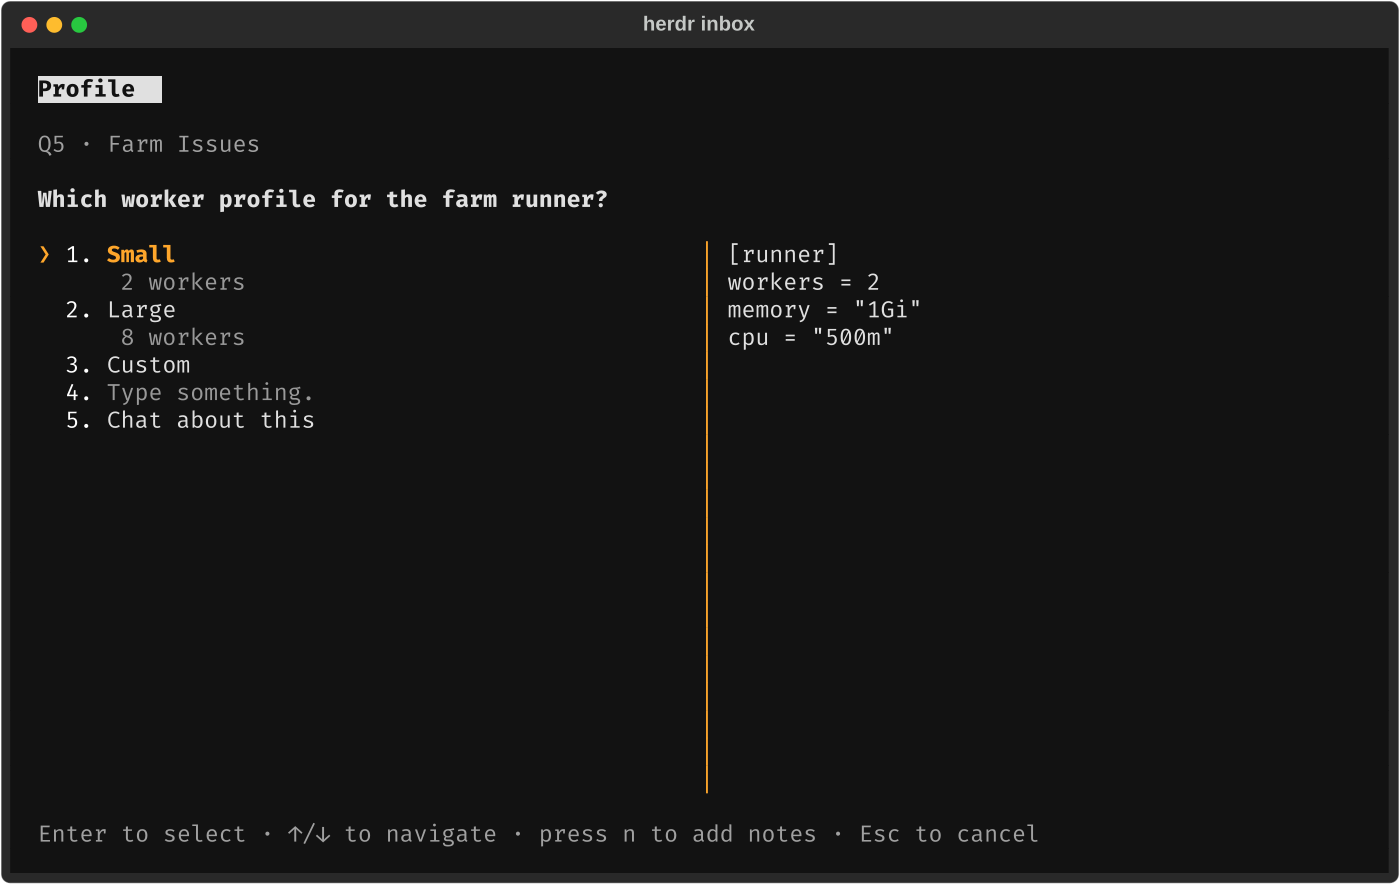
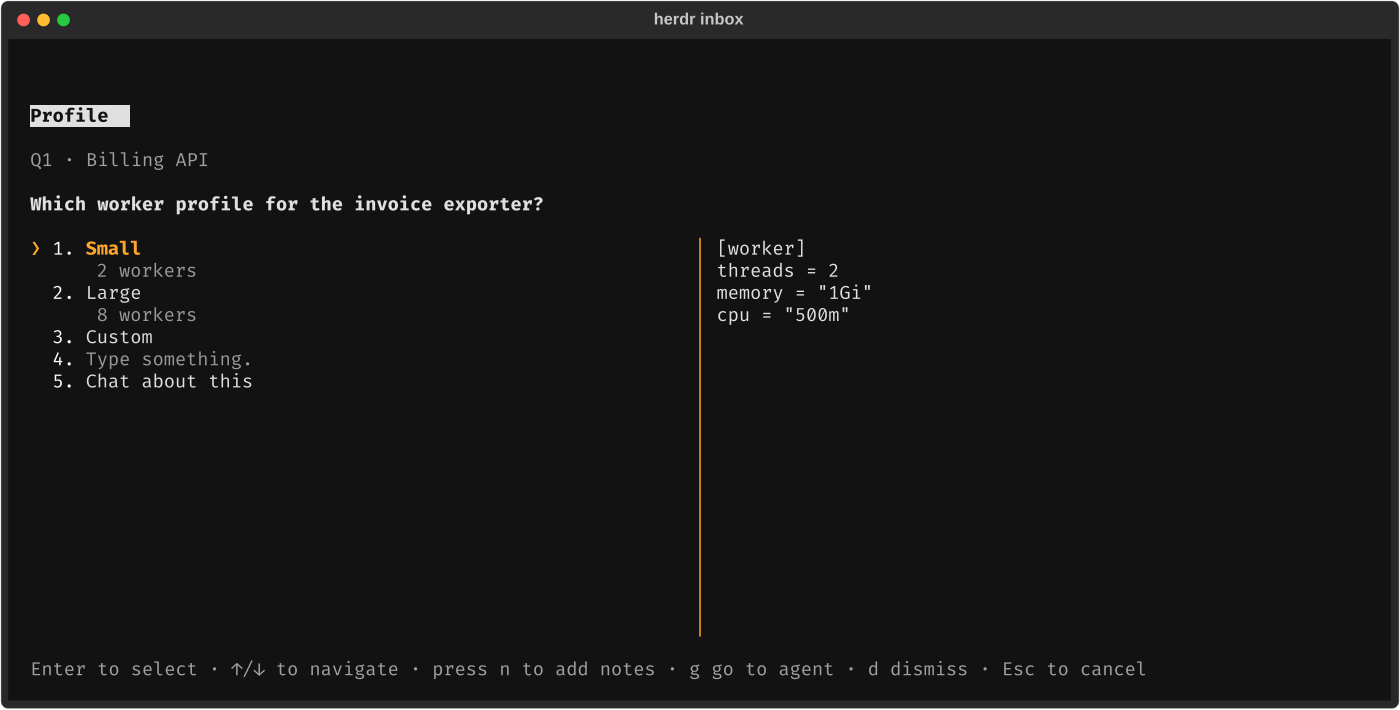
Neutral example data in tests, docs and regenerated screenshots

diff --git a/tests/test_tabs.py b/tests/test_tabs.py
@@ -1,4 +1,4 @@
-"""Open-question count in the herdr tab label (``❓2 Farm Issues``), via the fake herdr."""
+"""Open-question count in the herdr tab label (``❓2 Billing API``), via the fake herdr."""
 
 import json
 import os
@@ -19,9 +19,9 @@ def set_config(text: str) -> None:
 
 @pytest.fixture
 def tabbed(fake_herdr, tmp_path, monkeypatch):
-    """Tabs w1:t1 'Farm Issues' (panes w1:p1, w1:p3) and w1:t2 'Proxy' (pane w1:p2); prefix on."""
+    """Tabs w1:t1 'Billing API' (panes w1:p1, w1:p3) and w1:t2 'Docs site' (pane w1:p2); prefix on."""
     path = tmp_path / "tabs.json"
-    path.write_text(json.dumps({"w1:t1": "Farm Issues", "w1:t2": "Proxy"}))
+    path.write_text(json.dumps({"w1:t1": "Billing API", "w1:t2": "Docs site"}))
     monkeypatch.setenv("FAKE_HERDR_TABS", str(path))
     set_config("")  # defaults: tab_prefix = "❓"
     return path
@@ -41,21 +41,21 @@ def renames(fake):
     return [c[2:] for c in fake.calls_of("tab", "rename")]
 
 
-def caller(pane="w1:p1", tab="w1:t1", label="Farm Issues", session="sess-A"):
+def caller(pane="w1:p1", tab="w1:t1", label="Billing API", session="sess-A"):
     return Caller(pane_id=pane, tab_id=tab, tab_label=label, session_id=session, cwd="/r")
 
 
 def test_prefix_added_updated_and_restored(store, fake_herdr, tabbed):
     a = service.ask(store, caller(), "One?")["id"]
-    assert labels(tabbed)["w1:t1"] == "❓1 Farm Issues"
+    assert labels(tabbed)["w1:t1"] == "❓1 Billing API"
     b = service.ask(store, caller(pane="w1:p3"), "Two?")["id"]  # another pane in the same tab
-    assert labels(tabbed)["w1:t1"] == "❓2 Farm Issues"
+    assert labels(tabbed)["w1:t1"] == "❓2 Billing API"
     service.answer(store, a, "yes")
-    assert labels(tabbed)["w1:t1"] == "❓1 Farm Issues"
+    assert labels(tabbed)["w1:t1"] == "❓1 Billing API"
     service.close(store, b, "dismissed")
-    assert labels(tabbed) == {"w1:t1": "Farm Issues", "w1:t2": "Proxy"}  # original restored, other tab untouched
-    assert renames(fake_herdr) == [["w1:t1", "❓1 Farm Issues"], ["w1:t1", "❓2 Farm Issues"],
-                                   ["w1:t1", "❓1 Farm Issues"], ["w1:t1", "Farm Issues"]]
+    assert labels(tabbed) == {"w1:t1": "Billing API", "w1:t2": "Docs site"}  # original restored, other tab untouched
+    assert renames(fake_herdr) == [["w1:t1", "❓1 Billing API"], ["w1:t1", "❓2 Billing API"],
+                                   ["w1:t1", "❓1 Billing API"], ["w1:t1", "Billing API"]]
 
 
 def test_no_rename_when_label_already_right(store, fake_herdr, tabbed):
@@ -69,17 +69,17 @@ def test_no_rename_when_label_already_right(store, fake_herdr, tabbed):
 def test_operator_rename_meanwhile_is_adopted(store, fake_herdr, tabbed):
     a = service.ask(store, caller(), "One?")["id"]
     service.ask(store, caller(), "Two?")
-    relabel(tabbed, w1_t1="Farm v2")  # operator renamed the prefixed tab
+    relabel(tabbed, w1_t1="Billing v2")  # operator renamed the prefixed tab
     service.answer(store, a, "ok")
-    assert labels(tabbed)["w1:t1"] == "❓1 Farm v2"
-    relabel(tabbed, w1_t1="❓1 Farm v3")  # renamed keeping our prefix: still only one prefix
+    assert labels(tabbed)["w1:t1"] == "❓1 Billing v2"
+    relabel(tabbed, w1_t1="❓1 Billing v3")  # renamed keeping our prefix: still only one prefix
     service.close(store, 2, "dismissed")
-    assert labels(tabbed)["w1:t1"] == "Farm v3"
+    assert labels(tabbed)["w1:t1"] == "Billing v3"
 
 
 def test_question_stores_the_base_label(store, fake_herdr, tabbed):
     service.ask(store, caller(), "One?")
-    assert resolve_caller().tab_label == "Farm Issues"  # its tab now reads '❓1 Farm Issues'
+    assert resolve_caller().tab_label == "Billing API"  # its tab now reads '❓1 Billing API'
 
 
 def test_unnamed_tab_is_left_alone_by_default(store, fake_herdr, tabbed):
@@ -94,29 +94,29 @@ def test_unnamed_tab_is_left_alone_by_default(store, fake_herdr, tabbed):
 def test_prefix_configurable_and_disableable(store, fake_herdr, tabbed):
     set_config('tab_prefix = "Q"\n')
     service.ask(store, caller(), "One?")
-    assert labels(tabbed)["w1:t1"] == "Q1 Farm Issues"
+    assert labels(tabbed)["w1:t1"] == "Q1 Billing API"
     set_config('tab_prefix = ""\n')
     fake_herdr.reset()
     service.ask(store, caller(), "Two?")
     assert renames(fake_herdr) == [] and not fake_herdr.calls_of("pane", "list")  # no tab work when off
     service.sync_tokens(store)  # ...and the reconcile removes what is left
-    assert labels(tabbed)["w1:t1"] == "Farm Issues"
+    assert labels(tabbed)["w1:t1"] == "Billing API"
 
 
 def test_changing_marks_never_stacks_prefixes(store, fake_herdr, tabbed):
     """M1: every applied mark is recorded and stripped, repeatedly."""
     set_config('tab_prefix = "Q"\n')
     service.ask(store, caller(), "One?")
-    assert labels(tabbed)["w1:t1"] == "Q1 Farm Issues"
+    assert labels(tabbed)["w1:t1"] == "Q1 Billing API"
     for mark in ("❓", "X", "Q", "❓"):  # settings flip, e.g. config edits between processes
         set_config(f'tab_prefix = "{mark}"\n')
         service.update_markers(store, "w1:p1")
-        assert labels(tabbed)["w1:t1"] == f"{mark}1 Farm Issues"
-    relabel(tabbed, w1_t1="❓1 Q1 X1 Farm Issues")  # a stack left by an older build heals
+        assert labels(tabbed)["w1:t1"] == f"{mark}1 Billing API"
+    relabel(tabbed, w1_t1="❓1 Q1 X1 Billing API")  # a stack left by an older build heals
     service.update_markers(store, "w1:p1")
-    assert labels(tabbed)["w1:t1"] == "❓1 Farm Issues"
+    assert labels(tabbed)["w1:t1"] == "❓1 Billing API"
     assert tabs.marks_for(store, "w1:t1") == {"Q", "❓", "X"}
-    assert resolve_caller().tab_label == "Farm Issues"
+    assert resolve_caller().tab_label == "Billing API"
 
 
 def test_hung_herdr_never_blocks_the_database(store, fake_herdr, tabbed, monkeypatch):
@@ -170,14 +170,14 @@ def test_concurrent_updates_never_leave_a_stale_count(store, fake_herdr, tabbed,
     t2.start()
     t1.join(10)
     t2.join(10)
-    assert labels(tabbed)["w1:t1"] == "❓1 Farm Issues"
+    assert labels(tabbed)["w1:t1"] == "❓1 Billing API"
 
 
 def test_reconcile_adds_missing_and_removes_stale(store, fake_herdr, tabbed):
     service.ask(store, caller(), "One?")
-    relabel(tabbed, w1_t1="Farm Issues", w1_t2="❓3 Proxy")  # after a crash/restart
+    relabel(tabbed, w1_t1="Billing API", w1_t2="❓3 Docs site")  # after a crash/restart
     service.sync_tokens(store)
-    assert labels(tabbed) == {"w1:t1": "❓1 Farm Issues", "w1:t2": "Proxy"}
+    assert labels(tabbed) == {"w1:t1": "❓1 Billing API", "w1:t2": "Docs site"}
     fake_herdr.reset()
     service.sync_tokens(store)
     assert renames(fake_herdr) == []  # idempotent
@@ -186,7 +186,7 @@ def test_reconcile_adds_missing_and_removes_stale(store, fake_herdr, tabbed):
 def test_remove_prefixes_before_uninstall(store, fake_herdr, tabbed):
     service.ask(store, caller(), "One?")
     assert cli.main(["sync-tokens", "--remove-prefixes"]) == 0
-    assert labels(tabbed)["w1:t1"] == "Farm Issues"
+    assert labels(tabbed)["w1:t1"] == "Billing API"
 
 
 def test_custom_mark_never_touches_operator_labels(store, fake_herdr, tabbed):
@@ -194,11 +194,11 @@ def test_custom_mark_never_touches_operator_labels(store, fake_herdr, tabbed):
     set_config('tab_prefix = "Q"\n')
     relabel(tabbed, w1_t2="Q4 roadmap")  # never decorated by us
     qid = service.ask(store, caller(), "One?")["id"]
-    assert labels(tabbed)["w1:t1"] == "Q1 Farm Issues"
+    assert labels(tabbed)["w1:t1"] == "Q1 Billing API"
     service.sync_tokens(store)
     assert labels(tabbed)["w1:t2"] == "Q4 roadmap"
     service.close(store, qid, "dismissed")
-    assert labels(tabbed)["w1:t1"] == "Farm Issues" and tabs.marks_for(store, "w1:t1") == {"❓"}
+    assert labels(tabbed)["w1:t1"] == "Billing API" and tabs.marks_for(store, "w1:t1") == {"❓"}
     relabel(tabbed, w1_t1="Q7 plan")  # after we restored it, the operator picks a Q-name
     service.sync_tokens(store)
     service.ask(store, caller(), "Two?")
@@ -207,8 +207,8 @@ def test_custom_mark_never_touches_operator_labels(store, fake_herdr, tabbed):
 
 def test_base_label_strips_only_our_marks():
     marks = {"❓", "Q"}
-    assert tabs.base_label("❓12 Farm Issues", marks) == "Farm Issues"
-    assert tabs.base_label("❓1 Q2 ❓3 Farm", marks) == "Farm"
+    assert tabs.base_label("❓12 Billing API", marks) == "Billing API"
+    assert tabs.base_label("❓1 Q2 ❓3 Billing", marks) == "Billing"
     assert tabs.base_label("❓ not ours", marks) == "❓ not ours"
-    assert tabs.base_label("Farm ❓1 x", marks) == "Farm ❓1 x"
+    assert tabs.base_label("Billing ❓1 x", marks) == "Billing ❓1 x"
     assert tabs.base_label(None, marks) is None

diff --git a/tests/make_screenshots.py b/tests/make_screenshots.py
@@ -1,0 +1,98 @@
+"""Regenerate docs/screenshots/*.png from neutral demo data.
+
+Not collected by a plain `pytest` run. Usage (needs `rsvg-convert`):
+
+    uv run pytest tests/make_screenshots.py -q
+
+Each shot renders the popup headlessly (Textual SVG export) and converts it to PNG.
+"""
+
+import subprocess
+from pathlib import Path
+
+from herdr_inbox import service
+from herdr_inbox.service import Caller
+from herdr_inbox.tui import InboxApp
+
+OUT = Path(__file__).resolve().parent.parent / "docs" / "screenshots"
+BILLING = Caller(pane_id="w1:p1", tab_id="w1:t1", tab_label="Billing API", session_id="s1", cwd="/r")
+SEARCH = Caller(pane_id="w1:p2", tab_id="w1:t2", tab_label="Search refactor", session_id="s2", cwd="/r")
+DOCS = Caller(pane_id="w1:p3", tab_id="w1:t3", tab_label="Docs site", session_id="s3", cwd="/r")
+
+DB = [{"label": "Postgres", "description": "keeps the current ORM and migrations"},
+      {"label": "SQLite", "description": "single file, no server"}, {"label": "DuckDB"}]
+
+
+def populate(store):
+    service.ask(store, SEARCH, "Merge PR #42 with a merge commit or squash?", options=["merge commit", "squash"],
+                header="Merge mode", asked_by="reviewer")                                              # Q1
+    service.ask_group(store, BILLING, [
+        {"question": "Which database should the invoice store use?", "header": "DB choice", "options": DB},
+        {"question": "Which caches should the API warm on deploy?", "header": "Cache", "multi_select": True,
+         "options": ["redis", "in-process", "CDN"]}], context="Invoice rows ~1M/day", asked_by="planner")  # Q2, Q3
+    service.ask(store, DOCS, "Publish the v2 docs now or after the release?", options=["now", "after"],
+                header="Rollout")                                                                       # Q4
+
+
+def shot(app, name, size=(110, 30)):
+    svg = OUT / f"{name}.svg"
+    svg.write_text(app.export_screenshot(title="herdr inbox"))
+    subprocess.run(["rsvg-convert", "-w", "1400", "-o", str(OUT / f"{name}.png"), str(svg)], check=True)
+    svg.unlink()
+
+
+async def test_shots(store, fake_herdr):
+    size = (125, 30)
+    # empty
+    app = InboxApp(store, focus_pane="w1:p1")
+    async with app.run_test(size=size) as pilot:
+        await pilot.pause()
+        shot(app, "empty")
+    populate(store)
+    # submit tab: three questions drafted, one still blank
+    for qid, pick in ((1, "squash"), (2, "SQLite"), (3, "redis")):
+        service.save_draft(store, qid, {"choices": [pick]})
+    app = InboxApp(store, focus_pane="w1:p1")
+    async with app.run_test(size=size) as pilot:
+        await pilot.pause()
+        for _ in range(4):
+            await pilot.press("right")
+        await pilot.pause()
+        shot(app, "submit")
+    # tabs: Q1 was answered but could not be delivered -> a warning tab
+    for qid in (2, 3):
+        service.save_draft(store, qid, None)
+    store.set_answer(1, "squash", {"choices": ["squash"]})
+    store.record_delivery(1, "no live agent in the pane")
+    app = InboxApp(store, focus_pane="w1:p1")
+    async with app.run_test(size=size) as pilot:
+        await pilot.pause()
+        await pilot.press("down")
+        shot(app, "tabs")
+
+
+async def test_single_and_preview(fake_herdr, tmp_path, monkeypatch):
+    from herdr_inbox.store import Store
+
+    size = (125, 30)
+    monkeypatch.setenv("HERDR_INBOX_DB", str(tmp_path / "one.db"))
+    store = Store()
+    service.ask(store, BILLING, "Which database should the invoice store use?", options=DB, header="DB choice",
+                context="Invoice rows ~1M/day", asked_by="planner")
+    app = InboxApp(store, focus_pane="w1:p1")
+    async with app.run_test(size=size) as pilot:
+        await pilot.pause()
+        await pilot.press("down")
+        shot(app, "single")
+    store.close()
+    monkeypatch.setenv("HERDR_INBOX_DB", str(tmp_path / "preview.db"))
+    store = Store()
+    opts = [{"label": "Small", "description": "2 workers", "preview": '[worker]\nthreads = 2\nmemory = "1Gi"\ncpu = "500m"'},
+            {"label": "Large", "description": "8 workers", "preview": '[worker]\nthreads = 8\nmemory = "4Gi"\ncpu = "2"'},
+            {"label": "Custom"}]
+    service.ask(store, BILLING, "Which worker profile for the invoice exporter?", options=opts, header="Profile")
+    app = InboxApp(store, focus_pane="w1:p1")
+    async with app.run_test(size=size) as pilot:
+        await pilot.pause()
+        shot(app, "preview")
+    store.close()

diff --git a/tests/test_store.py b/tests/test_store.py
@@ -8,11 +8,11 @@ def caller(session="sess-A", pane="w1:p1"):
 
 
 def test_normalize_ignores_case_punctuation_and_whitespace():
-    assert normalize("  Should I MERGE   PR #595?\n") == normalize("should i merge pr 595")
+    assert normalize("  Should I MERGE   PR #42?\n") == normalize("should i merge pr 42")
 
 
 def test_new_question_is_recorded(store, fake_herdr):
-    out = service.ask(store, caller(), "Merge PR 595?", options=["yes", "no"], asked_by="reviewer")
+    out = service.ask(store, caller(), "Merge PR 42?", options=["yes", "no"], asked_by="reviewer")
     assert out["status"] == "open"
     assert "Recorded as Q1" in out["message"] and "`[inbox]` that names Q1" in out["message"]
     q = store.get(out["id"])
@@ -23,8 +23,8 @@ def test_new_question_is_recorded(store, fake_herdr):
 
 
 def test_open_duplicate_is_not_reinserted(store, fake_herdr):
-    first = service.ask(store, caller(), "Merge PR 595?")
-    again = service.ask(store, caller(), "merge   pr 595")
+    first = service.ask(store, caller(), "Merge PR 42?")
+    again = service.ask(store, caller(), "merge   pr 42")
     assert again == {
         "id": first["id"],
         "status": "already_open",
@@ -65,9 +65,9 @@ def test_pane_is_the_fallback_owner_without_session(store, fake_herdr):
 
 
 def test_ask_notifies_and_sets_token(store, fake_herdr):
-    service.ask(store, caller(), "Merge PR 595?\nsecond line")
+    service.ask(store, caller(), "Merge PR 42?\nsecond line")
     assert fake_herdr.calls_of("notification", "show") == [
-        ["notification", "show", "Q1 · my-tab", "--body", "Merge PR 595?", "--sound", "request"]
+        ["notification", "show", "Q1 · my-tab", "--body", "Merge PR 42?", "--sound", "request"]
     ]
     assert fake_herdr.calls_of("pane", "report-metadata") == [
         ["pane", "report-metadata", "w1:p1", "--source", "herdr-inbox", "--token", "inbox_q=?1"]

diff --git a/tests/test_delivery.py b/tests/test_delivery.py
@@ -2,7 +2,7 @@ from herdr_inbox import cli, service
 from herdr_inbox.service import Caller
 
 
-def ask(store, question="Merge PR 595 now?", pane="w1:p1"):
+def ask(store, question="Merge PR 42 now?", pane="w1:p1"):
     c = Caller(pane_id=pane, tab_id="w1:t1", tab_label="my-tab", session_id="sess-A", cwd="/repo")
     return service.ask(store, c, question)["id"]
 
@@ -14,7 +14,7 @@ def test_answer_is_prompted_into_the_asking_pane(store, fake_herdr):
     assert q.status == "answered" and q.delivered_at and q.delivery_error is None
     assert fake_herdr.calls() == [
         ["agent", "get", "w1:p1"],
-        ["agent", "prompt", "w1:p1", "[inbox] Q1 answered — Merge PR 595 now?: yes, squash it"],
+        ["agent", "prompt", "w1:p1", "[inbox] Q1 answered — Merge PR 42 now?: yes, squash it"],
         ["pane", "report-metadata", "w1:p1", "--source", "herdr-inbox", "--clear-token", "inbox_q"],
     ]
     # never --wait: delivery must not block the TUI on the agent's turn

diff --git a/src/herdr_inbox/server.py b/src/herdr_inbox/server.py
@@ -48,7 +48,7 @@ AskUserQuestion's:
 - `questions`: instead of `question`, up to 4 related questions in one call, each
   `{"question", "header"?, "options"?, "multi_select"?}`. The operator answers them together;
   each gets its own Q id.
-- `context`: supporting detail; `asked_by`: who is asking (e.g. "reviewer PR 595") when you are
+- `context`: supporting detail; `asked_by`: who is asking (e.g. "reviewer PR 42") when you are
   a subagent or one of several roles.
 Each answer is one line: the picked label(s), notes in parentheses, or the free text. Answers
 the operator submits together arrive in one `[inbox]` message."""

diff --git a/tests/test_final_review.py b/tests/test_final_review.py
@@ -25,7 +25,7 @@ def visible(app, row_id):
 async def test_cursor_row_stays_visible_in_a_short_popup(store, fake_herdr):
     """The reviewer's repro: 60x20, 9 options with descriptions and previews."""
     opts = [{"label": f"Option {i}", "description": LONG, "preview": f"preview {i}\n" * 3} for i in range(1, 10)]
-    service.ask(store, A, "Pick a config for the farm rollout?", options=opts)
+    service.ask(store, A, "Pick a config for the billing rollout?", options=opts)
     app = InboxApp(store)
     async with app.run_test(size=(60, 20)) as pilot:
         await pilot.pause()

diff --git a/src/herdr_inbox/tabs.py b/src/herdr_inbox/tabs.py
@@ -1,4 +1,4 @@
-"""Open-question count in the herdr tab label: ``❓2 Farm Issues``.
+"""Open-question count in the herdr tab label: ``❓2 Billing API``.
 
 herdr has no per-tab tokens, so the count goes into the label itself with
 ``herdr tab rename``. The operator's own label (the *base*) is never stored:

diff --git a/README.md b/README.md
@@ -20,7 +20,7 @@ agent's pane.
   question, drafts for several questions, one Submit.
 - **Answer delivery** into the asking pane, only while that pane still holds the conversation
   that asked.
-- **Open-question markers**: tabs get a `❓N` prefix (`❓2 Farm Issues`), and panes get an optional
+- **Open-question markers**: tabs get a `❓N` prefix (`❓2 Billing API`), and panes get an optional
   `$inbox_q` sidebar token.
 - **A SessionStart hook** that teaches every Claude Code session to use the inbox, so no
   `CLAUDE.md` edit is needed. Outside herdr the hooks stay silent and `ask_operator` tells the
@@ -239,7 +239,7 @@ Tests never touch a real herdr: they point `HERDR_BIN_PATH` at a fake that recor
 `HERDR_INBOX_DB` at a temp file. CI runs them on Linux and macOS, and validates the plugin
 manifests with `claude plugin validate`. Keep the version identical in `pyproject.toml`,
 `herdr-plugin.toml`, `.claude-plugin/plugin.json` and `.claude-plugin/marketplace.json` (a test
-checks this); bump it for every release, since Claude Code keys its plugin cache by version.
+checks this); regenerate screenshots with `uv run pytest tests/make_screenshots.py` (needs `rsvg-convert`); bump it for every release, since Claude Code keys its plugin cache by version.
 
 ## License
 

diff --git a/skills/operator-questions/SKILL.md b/skills/operator-questions/SKILL.md
@@ -43,9 +43,9 @@ history. Make it self-contained:
   Q id; the operator answers them in one view and usually submits them together.
 - Put long supporting detail (log excerpts, the tradeoff) in `context`, not in `question`.
 - Set `asked_by` when you are a subagent or one of several roles in the pane, e.g.
-  `"reviewer PR 595"`, so the operator knows who is asking.
+  `"reviewer PR 42"`, so the operator knows who is asking.
 
-Good: `question="api#595: merge with a merge commit or squash? The branch carries history from #590."`,
+Good: `question="api#42: merge with a merge commit or squash? The branch carries history from #40."`,
 `options=["merge commit", "squash"]`.
 
 Bad: `question="Which one should I use?"`

diff --git a/docs/DESIGN.md b/docs/DESIGN.md
@@ -68,7 +68,7 @@ ask in chat, the hooks print nothing, and no herdr call is made. The plugin is
 installed at user scope, so this covers plain terminals, IDEs and `claude -p`.
 
 Which **subagent** asked is out of scope for the PoC; the optional `asked_by`
-argument carries the agent's own description of itself (e.g. "reviewer PR 595").
+argument carries the agent's own description of itself (e.g. "reviewer PR 42").
 
 ## Data model
 
